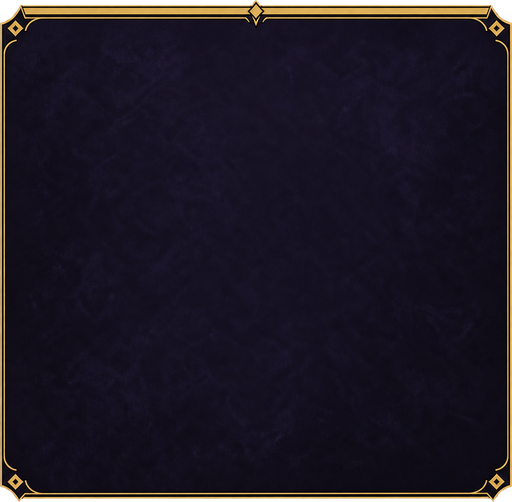
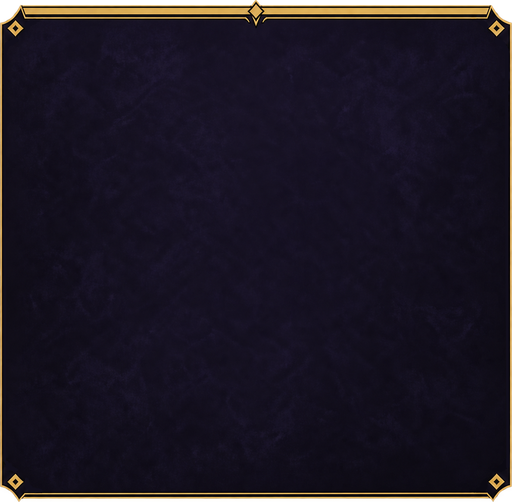
ui: rebuild the even frame from A1-2
- Mirror the whole bottom half to the top (the old 28px paste spliced the top corners)
- Use A1-2 (author removed the small spikes that looked crushed when scaled down)

diff --git a/style.css b/style.css
@@ -7064,11 +7064,11 @@ html, body {
 #gameScreen[data-mode="battle"] .lcWeapon,
 #gameScreen[data-mode="battle"] .refFc {
     border-width: 7px;
-    border-image: url("assets/ui/panel_even.png") 26 fill / 7px stretch;
+    border-image: url("assets/ui/panel_even.png?v=even-3") 26 fill / 7px stretch;
 }
 #gameScreen[data-mode="battle"] .lcCard.enemy,
 #gameScreen[data-mode="battle"] .refFc.readOnly {
-    border-image-source: url("assets/ui/panel_even_enemy.png");
+    border-image-source: url("assets/ui/panel_even_enemy.png?v=even-3");
 }
 
 /* 2. 戦闘予測 */
@@ -7244,7 +7244,7 @@ html, body {
     align-items: stretch;
     overflow: hidden;
     border: 7px solid transparent;
-    border-image: url("assets/ui/panel_even.png") 26 fill / 7px stretch;
+    border-image: url("assets/ui/panel_even.png?v=even-3") 26 fill / 7px stretch;
     box-shadow: 0 -6px 18px rgba(4,3,10,0.55);
 }
 #lsForecast .fcbPanel.readOnly { bottom: 6px; }
@@ -7388,7 +7388,7 @@ html, body {
     font-size: 8px;
     line-height: 1.6;
     border: 5px solid transparent;
-    border-image: url("assets/ui/panel_even.png") 26 fill / 5px stretch;
+    border-image: url("assets/ui/panel_even.png?v=even-3") 26 fill / 5px stretch;
 }
 #lsForecast .fcbDetail.hidden { display: none; }
 #lsForecast .fcbDetail p { margin: 0; }

diff --git a/index.html b/index.html
@@ -8,7 +8,7 @@
     <link rel="preconnect" href="https://fonts.googleapis.com">
     <link rel="preconnect" href="https://fonts.gstatic.com" crossorigin>
     <link href="https://fonts.googleapis.com/css2?family=Noto+Serif+JP:wght@400;700&family=M+PLUS+1:wght@300;400;700&display=swap" rel="stylesheet">
-    <link rel="stylesheet" href="style.css?v=ui-v3-1" />
+    <link rel="stylesheet" href="style.css?v=even-3" />
 </head>
 
 <body>
@@ -259,7 +259,7 @@
     <script src="combatPipeline.js?v=shadow-live-2"></script>
     <script src="combatShadowComparison.js?v=shadow-live-2"></script>
     <script src="dataHelper.js?v=raw-fe-stats-1"></script>
-    <script src="battleDefinitions.js?v=iso-1"></script>
+    <script src="battleDefinitions.js?v=potion-1"></script>
     <script src="partyState.js?v=transfer-1"></script>
     <script src="scenario.js?v=transparent-portraits-5"></script>
     <script src="game.js?v=magic-core-1"></script>

diff --git a/tools/build_ui_assets.py b/tools/build_ui_assets.py
@@ -50,7 +50,8 @@ ASSETS = {
 # (元のファイル, 書き出す名前, 切り落としのしきい値, 縮める先 ("width"|"height"|"square", px) または None)
 ORDERED_ASSETS = [
     # ChatGPT（アイコン素材/発注UI/）: 光沢なし・細い金の線の枠
-    ("アイコン素材/発注UI/A1.png", "panel_a1", 128, ("width", 512)),     # 基本パネル（上辺だけ太い金の線）
+    # 基本パネル（上辺だけ太い金の線）。A1-2 は原作者が四隅の小さな突起を消したもの（縮めると潰れて見えたため。2026-09-27）
+    ("アイコン素材/発注UI/A1-2.png", "panel_a1", 128, ("width", 512)),
     ("アイコン素材/発注UI/A2.png", "panel_a2", 128, ("width", 512)),     # 基本パネル（敵: 上辺が赤）
     ("アイコン素材/発注UI/A3.png", "heading_bar", 64, ("height", 256)),  # 見出しの飾り（縦の金の線）
     ("アイコン素材/発注UI/A4.png", "separator_a4", 64, ("width", 1024)), # 区切り線（中央に菱形）
@@ -105,10 +106,15 @@ BAND_X = [(0, 200, False), (200, 870, True), (870, 1167, False), (1167, 1837, Tr
 BAND_Y = [(0, 138, False), (138, 166, True), (166, 233, False), (233, 261, True), (261, 399, False)]
 
 
-def even_frame(image: Image.Image, rows: int = 28) -> Image.Image:
-    """上辺だけ太いA1の枠を、上下同じ太さにする（下辺を上下反転して上辺に貼る。原作者 2026-09-26）"""
+def even_frame(image: Image.Image) -> Image.Image:
+    """
+    上辺だけ太いA1の枠を、上下同じ太さにする（原作者 2026-09-26）。
+    下半分をまるごと上下反転して上半分に貼る。以前は下辺の28pxだけを貼っていたため、
+    それより背の高い四隅の飾りが上と下の飾りの継ぎはぎになっていた（原作者の指摘 2026-09-27）
+    """
     out = image.copy()
-    bottom = image.crop((0, image.height - rows, image.width, image.height)).transpose(Image.FLIP_TOP_BOTTOM)
+    half = image.height // 2
+    bottom = image.crop((0, image.height - half, image.width, image.height)).transpose(Image.FLIP_TOP_BOTTOM)
     out.paste(bottom, (0, 0))
     return out
 
